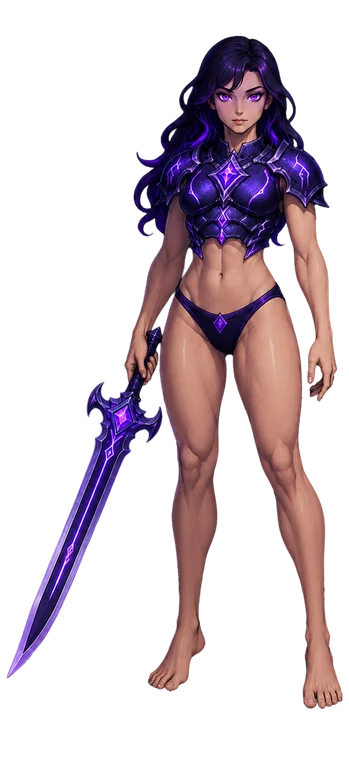
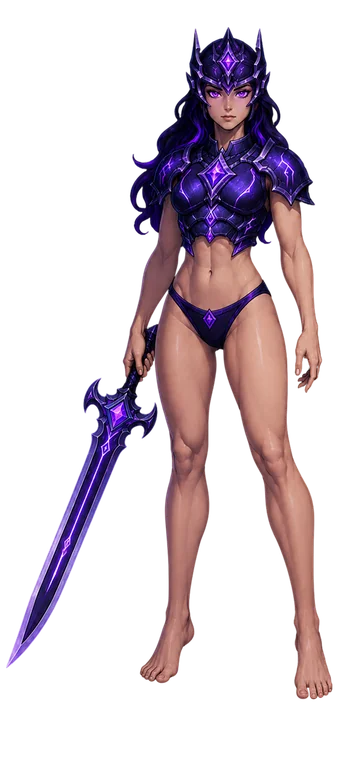
fix(rpg): correct female front (Home) pose gear mapping
Female Home poses were mis-tagged (armor/helmet dropped when equipped).
Re-verified every female front pose via head/chest/feet detail crops and
corrected: 567=W+A (no helmet), 665=W+A+B (no helmet, not "full"), 669=W+H+A,
667=W+H+B. There's no female full-4 or A+B front pose, so those fall back to
the closest SUBSET (full -> W+H+A, keeps helmet+armor). Adds a shared
closestSubsetMask() (weapon>helmet>armor>boots tie-break) used by both the
front and battle resolvers. Verified no unequipped gear shows for all 16
combos.

Changed region(s): [[0.0, 0.0303, 0.9735, 0.9079], [0.8555, 0.7566, 1.0, 0.9382]]

diff --git a/app/components/rpg/rpgAssets.js b/app/components/rpg/rpgAssets.js
@@ -99,14 +99,13 @@ export function arenaFor(bossId) {
 // The hero on Home visually wears whatever gear is equipped. Each pose art is
 // keyed by a 4-bit gear mask: weapon=8, helmet=4, armor=2, boots=1. Files live
 // at /assets/rpg/hero/<gender>/<mask 2-digit>.webp. Not every combo was drawn
-// (male lacks the full 4-piece; female lacks armor+boots), so heroPoseFor()
-// falls back to the closest available pose — most equipped pieces matched,
-// fewest shown-but-not-equipped.
+// (female lacks armor+boots and the full 4-piece), so heroPoseFor() falls back
+// to the closest SUBSET pose — never showing a piece that isn't equipped.
 // ---------------------------------------------------------------------------
 
 export const HERO_POSE_MASKS = {
   male: [0, 1, 2, 3, 4, 5, 6, 7, 8, 9, 10, 11, 12, 13, 14, 15],
-  female: [0, 1, 2, 4, 5, 6, 7, 8, 9, 12, 13, 14, 15],
+  female: [0, 1, 2, 4, 5, 6, 7, 8, 9, 10, 11, 12, 13, 14],
 };
 
 // Back-facing poses for the boss battle (Figma mini set) — the hero faces the
@@ -129,6 +128,24 @@ export function equipMask(equipment) {
   return (s.weapon ? 8 : 0) | (s.helmet ? 4 : 0) | (s.armor ? 2 : 0) | (s.boots ? 1 : 0);
 }
 
+// Pick the available pose mask that is a SUBSET of `want` (never shows a piece
+// that isn't equipped) covering the most equipped pieces. Ties prefer the most
+// visible gear: weapon > helmet > armor > boots. mask 0 is always eligible.
+function closestSubsetMask(avail, want) {
+  let best = 0;
+  let bestScore = -1;
+  for (const m of avail) {
+    if ((m & ~want) !== 0) continue; // shows gear that isn't equipped — skip
+    const score =
+      popcount(m & want) * 100 + (m & 8 ? 8 : 0) + (m & 4 ? 4 : 0) + (m & 2 ? 2 : 0) + (m & 1 ? 1 : 0);
+    if (score > bestScore) {
+      bestScore = score;
+      best = m;
+    }
+  }
+  return best;
+}
+
 export function heroPoseFor(gender, equipment) {
   const g = gender === "female" ? "female" : "male";
   const avail = HERO_POSE_MASKS[g];
@@ -143,17 +160,7 @@ export function heroPoseFor(gender, equipment) {
     // hero can never display gear the player hasn't equipped. Among eligible
     // poses pick the one covering the most equipped pieces (mask 0 is always
     // eligible, so there is always a result).
-    let bestScore = -1;
-    for (const m of avail) {
-      if ((m & ~want) !== 0) continue; // shows gear that isn't equipped — skip
-      // Coverage dominates; among equal-coverage subsets prefer one that keeps
-      // the (equipped) weapon visible — still never adds unequipped gear.
-      const score = popcount(m & want) * 2 + (m & 8 ? 1 : 0);
-      if (score > bestScore) {
-        bestScore = score;
-        best = m;
-      }
-    }
+    best = closestSubsetMask(avail, want);
   }
   return `/assets/rpg/hero/${g}/${String(best).padStart(2, "0")}.webp`;
 }
@@ -165,21 +172,7 @@ export function heroBattlePoseFor(gender, equipment) {
   const avail = HERO_BATTLE_MASKS[g];
   if (!avail || !avail.length) return heroPoseFor(gender, equipment);
   const want = equipMask(equipment);
-  if (avail.includes(want)) {
-    return `/assets/rpg/hero/${g}-battle/${String(want).padStart(2, "0")}.webp`;
-  }
-  // No exact back pose (e.g. no full-4 back art) → closest subset. Maximise
-  // covered pieces, then prefer keeping the most visible ones (weapon, helmet).
-  let best = 0;
-  let bestScore = -1;
-  for (const m of avail) {
-    if ((m & ~want) !== 0) continue; // shows gear that isn't equipped — skip
-    const score = popcount(m & want) * 10 + (m & 8 ? 2 : 0) + (m & 4 ? 1 : 0);
-    if (score > bestScore) {
-      bestScore = score;
-      best = m;
-    }
-  }
+  const best = avail.includes(want) ? want : closestSubsetMask(avail, want);
   return `/assets/rpg/hero/${g}-battle/${String(best).padStart(2, "0")}.webp`;
 }
 
